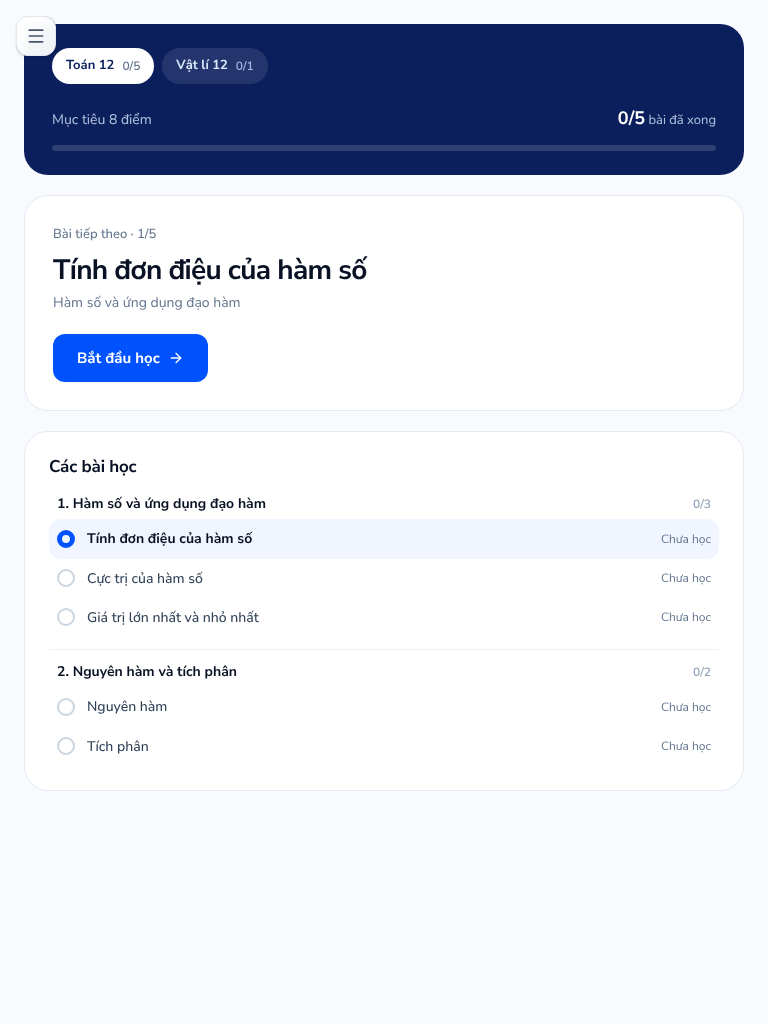
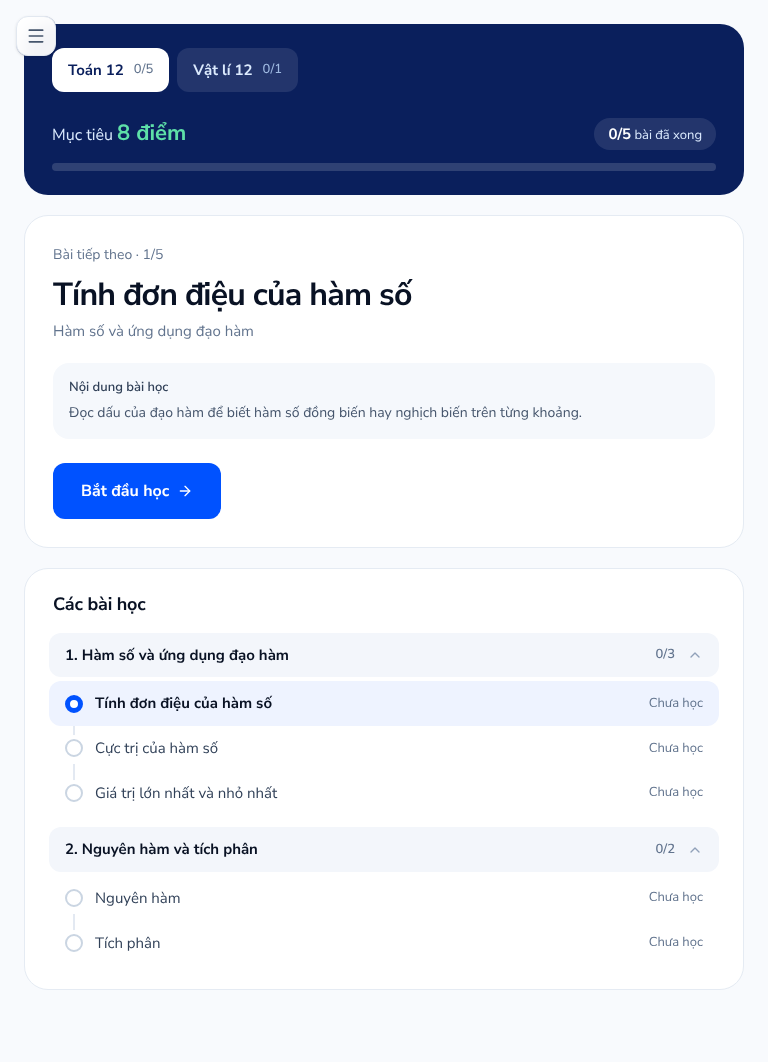
Roadmap: follow the agreed layout without decorative extras
Navy header with subject tabs, goal and progress; next-lesson card with
status dots, lesson summary and one main action; lessons grouped by
collapsible chapter with a connecting line. Drops the 3D art, the
motivational line and decorative icons from the mockup.

Claude-Session: https://claude.ai/code/session_0183PJ8LAwyvZoofH1NCFUep

diff --git a/features/roadmap/components/student-roadmap.tsx b/features/roadmap/components/student-roadmap.tsx
@@ -187,28 +187,32 @@ function Hero({
   progress?: { completed: number; total: number };
 }) {
   return (
-    <header className="rounded-[24px] bg-[#0A1F5C] px-5 pb-5 pt-5 text-white sm:px-7 sm:pb-6 sm:pt-6">
+    <header className="rounded-[24px] bg-[#0A1F5C] px-5 py-5 text-white sm:px-7 sm:py-6">
       {tabs}
-      <div className="flex items-baseline justify-between gap-4">
-        <div className="min-w-0">
-          <h1
-            className={
-              tabs
-                ? 'sr-only'
-                : 'text-[26px] font-extrabold leading-tight tracking-tight text-white sm:text-[32px]'
-            }
-          >
-            {title}
-          </h1>
-          {targetScore ? (
-            <p className={`text-[14px] text-blue-100/80 ${tabs ? '' : 'mt-1'}`}>
-              Mục tiêu {targetScore} điểm
-            </p>
-          ) : null}
-        </div>
+      <h1
+        className={
+          tabs
+            ? 'sr-only'
+            : 'mb-4 text-[26px] font-extrabold leading-tight tracking-tight text-white sm:text-[32px]'
+        }
+      >
+        {title}
+      </h1>
+      <div className="flex flex-wrap items-center justify-between gap-x-4 gap-y-2">
+        {targetScore ? (
+          <p className="text-[16px] text-blue-100">
+            Mục tiêu{' '}
+            <span className="text-[22px] font-extrabold text-[#5EE0A8]">{targetScore} điểm</span>
+          </p>
+        ) : (
+          <span />
+        )}
         {progress && (
-          <p className="shrink-0 text-[13px] text-blue-100/80" data-testid="roadmap-progress">
-            <span className="text-[18px] font-extrabold text-white" data-testid="roadmap-completed">
+          <p
+            className="rounded-full bg-white/10 px-3.5 py-1 text-[13px] text-blue-100"
+            data-testid="roadmap-progress"
+          >
+            <span className="text-[15px] font-bold text-white" data-testid="roadmap-completed">
               {progress.completed}/{progress.total}
             </span>{' '}
             bài đã xong
@@ -217,7 +221,7 @@ function Hero({
       </div>
       {progress && (
         <div
-          className="mt-3 h-1.5 overflow-hidden rounded-full bg-white/15"
+          className="mt-3 h-2 overflow-hidden rounded-full bg-white/15"
           role="progressbar"
           aria-label="Tiến độ lộ trình"
           aria-valuenow={progress.completed}
@@ -273,7 +277,9 @@ function NextStepCard({
       : step.kind === 'check'
         ? { href: lessonHref(step.lesson.id), label: 'Học bài trước' }
         : null;
-  const status = standingLabel(standings.get(step.lesson.id)!);
+  const standing = standings.get(step.lesson.id)!;
+  const status = standingLabel(standing);
+  const open = standing.practice?.inProgress;
 
   return (
     <section
@@ -283,25 +289,48 @@ function NextStepCard({
       data-kind={step.kind}
       data-lesson={step.lesson.id}
     >
-      <p className="text-[13px] font-medium text-slate-500">
+      <p className="text-[14px] text-slate-500">
         Bài tiếp theo · {position}/{scope.lessons.length}
       </p>
       <h2
         id="roadmap-next-title"
-        className="mt-2 text-[24px] font-extrabold leading-tight tracking-tight text-[#091224] sm:text-[28px]"
+        className="mt-2 text-[26px] font-extrabold leading-tight tracking-tight text-[#091224] sm:text-[32px]"
       >
         {step.lesson.title}
       </h2>
-      <p className="mt-1 text-[14px] text-slate-500">{readable(step.lesson.chapterTitle)}</p>
+      <p className="mt-1 text-[15px] text-slate-500">{readable(step.lesson.chapterTitle)}</p>
       {status.tone !== 'idle' && (
-        <p
-          className={`mt-4 text-[14px] font-semibold ${statusTone(status.tone)}`}
-          data-testid="roadmap-reason"
-        >
-          {status.text}
-        </p>
+        <div className="mt-4 flex flex-wrap items-center gap-x-4 gap-y-2">
+          <p
+            className={`text-[15px] font-semibold ${statusTone(status.tone)}`}
+            data-testid="roadmap-reason"
+          >
+            {status.text}
+          </p>
+          {open && open.totalCount <= 20 && (
+            <span className="flex gap-1" aria-hidden="true">
+              {Array.from({ length: open.totalCount }, (_, i) => (
+                <span
+                  key={i}
+                  className={`h-2 w-4 rounded-full ${i < open.answeredCount ? 'bg-[#0052FF]' : 'bg-[#DCE5F3]'}`}
+                />
+              ))}
+            </span>
+          )}
+        </div>
       )}
-      <div className="mt-5 flex flex-col gap-3 sm:flex-row sm:items-center sm:gap-5">
+      {step.lesson.description && (
+        <div className="mt-5 rounded-2xl bg-[#F5F8FC] px-4 py-3.5">
+          <p className="text-[13px] font-semibold text-slate-700">Nội dung bài học</p>
+          <p
+            className="mt-1 line-clamp-3 text-[14px] leading-6 text-slate-600"
+            data-testid="roadmap-next-description"
+          >
+            {step.lesson.description}
+          </p>
+        </div>
+      )}
+      <div className="mt-6 flex flex-col gap-3 sm:flex-row sm:items-center sm:gap-6">
         <Link href={step.href} className={primaryClass} data-testid="roadmap-next-cta">
           {step.cta} <ArrowRight className="size-4" aria-hidden="true" />
         </Link>
@@ -340,12 +369,12 @@ function LessonList({
   return (
     <section
       aria-labelledby="roadmap-map"
-      className="rounded-[24px] border border-[#E5EBF3] bg-white p-5 sm:p-6"
+      className="rounded-[24px] border border-[#E5EBF3] bg-white p-4 sm:p-6"
     >
-      <h2 id="roadmap-map" className="text-[17px] font-extrabold text-[#091224]">
+      <h2 id="roadmap-map" className="px-1 text-[18px] font-extrabold text-[#091224]">
         Các bài học
       </h2>
-      <ol className="mt-3 divide-y divide-[#EEF2F7]">
+      <ol className="mt-4 space-y-3">
         {scope.chapters.map((chapter, index) => {
           const done = chapter.lessons.filter((l) => standings.get(l.id)?.completed).length;
           const here = chapter.lessons.some((l) => l.id === nextLessonId);
@@ -356,16 +385,16 @@ function LessonList({
               title={readable(chapter.title)}
               done={done}
               count={chapter.lessons.length}
-              collapsible={many}
               open={!many || here || (!nextLessonId && index === scope.chapters.length - 1)}
             >
-              {chapter.lessons.map((lesson) => (
+              {chapter.lessons.map((lesson, i) => (
                 <LessonRow
                   key={lesson.id}
                   lessonId={lesson.id}
                   title={lesson.title}
                   standing={standings.get(lesson.id)!}
                   isNext={lesson.id === nextLessonId}
+                  last={i === chapter.lessons.length - 1}
                 />
               ))}
             </Chapter>
@@ -381,7 +410,6 @@ function Chapter({
   title,
   done,
   count,
-  collapsible,
   open,
   children,
 }: {
@@ -389,40 +417,27 @@ function Chapter({
   title: string;
   done: number;
   count: number;
-  collapsible: boolean;
   open: boolean;
   children: React.ReactNode;
 }) {
-  const heading = (
-    <span className="flex min-w-0 flex-1 items-baseline justify-between gap-3">
-      <span className="min-w-0 text-[14px] font-bold leading-snug text-[#091224]">
-        {index + 1}. {title}
-      </span>
-      <span
-        className={`shrink-0 text-[12px] font-semibold ${done === count ? 'text-emerald-700' : 'text-slate-400'}`}
-      >
-        {done}/{count}
-      </span>
-    </span>
-  );
-  if (!collapsible)
-    return (
-      <li className="py-3 first:pt-1 last:pb-0" data-testid="roadmap-chapter">
-        <div className="flex px-2">{heading}</div>
-        <ol className="mt-1.5">{children}</ol>
-      </li>
-    );
   return (
-    <li className="py-3 first:pt-1 last:pb-0" data-testid="roadmap-chapter">
+    <li data-testid="roadmap-chapter">
       <details open={open} className="group">
-        <summary className="flex cursor-pointer list-none items-center gap-2 rounded-lg px-2 focus-visible:outline-none focus-visible:ring-2 focus-visible:ring-blue-500 [&::-webkit-details-marker]:hidden">
-          {heading}
+        <summary className="flex cursor-pointer list-none items-center gap-3 rounded-xl bg-[#F3F6FB] px-4 py-3 hover:bg-[#EDF2FA] focus-visible:outline-none focus-visible:ring-2 focus-visible:ring-blue-500 [&::-webkit-details-marker]:hidden">
+          <span className="min-w-0 flex-1 text-[15px] font-bold leading-snug text-[#091224]">
+            {index + 1}. {title}
+          </span>
+          <span
+            className={`shrink-0 text-[13px] font-semibold ${done === count ? 'text-emerald-700' : 'text-slate-500'}`}
+          >
+            {done}/{count}
+          </span>
           <ChevronDown
             className="size-4 shrink-0 text-slate-400 transition-transform group-open:rotate-180"
             aria-hidden="true"
           />
         </summary>
-        <ol className="mt-1.5">{children}</ol>
+        <ol className="mt-1">{children}</ol>
       </details>
     </li>
   );
@@ -433,19 +448,27 @@ function LessonRow({
   title,
   standing,
   isNext,
+  last,
 }: {
   lessonId: string;
   title: string;
   standing: LessonStanding;
   isNext: boolean;
+  last: boolean;
 }) {
   const label = standingLabel(standing);
   return (
-    <li>
+    <li className="relative">
+      {!last && (
+        <span
+          aria-hidden="true"
+          className="absolute left-[24px] top-[38px] -bottom-[14px] w-0.5 bg-[#E3E9F2]"
+        />
+      )}
       <Link
         href={lessonHref(lessonId)}
-        className={`flex items-center gap-3 rounded-xl px-2 py-2.5 transition-colors focus-visible:outline-none focus-visible:ring-2 focus-visible:ring-blue-500 ${
-          isNext ? 'bg-[#F0F5FF]' : 'hover:bg-slate-50'
+        className={`relative flex items-center gap-3 rounded-xl px-4 py-3 transition-colors focus-visible:outline-none focus-visible:ring-2 focus-visible:ring-blue-500 ${
+          isNext ? 'bg-[#EEF3FF]' : 'hover:bg-slate-50'
         }`}
         data-testid="roadmap-lesson"
         data-lesson={lessonId}
@@ -453,19 +476,21 @@ function LessonRow({
         aria-current={isNext ? 'step' : undefined}
       >
         <Mark tone={label.tone} isNext={isNext} />
-        <span
-          className={`min-w-0 flex-1 text-[14px] leading-snug ${
-            isNext ? 'font-bold text-[#091224]' : 'font-medium text-slate-700'
-          }`}
-        >
-          {title}
-          {isNext && <span className="sr-only"> (bước tiếp theo)</span>}
-        </span>
-        <span
-          className={`shrink-0 text-right text-[12px] ${statusTone(label.tone)}`}
-          data-testid="roadmap-lesson-status"
-        >
-          {label.text}
+        <span className="flex min-w-0 flex-1 flex-col gap-0.5 sm:flex-row sm:items-center sm:gap-3">
+          <span
+            className={`min-w-0 flex-1 text-[15px] leading-snug ${
+              isNext ? 'font-bold text-[#091224]' : 'text-slate-700'
+            }`}
+          >
+            {title}
+            {isNext && <span className="sr-only"> (bước tiếp theo)</span>}
+          </span>
+          <span
+            className={`shrink-0 text-[13px] sm:text-right ${statusTone(label.tone)}`}
+            data-testid="roadmap-lesson-status"
+          >
+            {label.text}
+          </span>
         </span>
       </Link>
     </li>
@@ -477,7 +502,7 @@ function Mark({ tone, isNext }: { tone: string; isNext: boolean }) {
     return (
       <span
         aria-hidden="true"
-        className="grid size-[18px] shrink-0 place-items-center rounded-full bg-emerald-500 text-white"
+        className="grid size-[18px] shrink-0 place-items-center rounded-full bg-emerald-500 text-white ring-4 ring-white"
       >
         <Check className="size-3" strokeWidth={3.5} />
       </span>
@@ -485,14 +510,14 @@ function Mark({ tone, isNext }: { tone: string; isNext: boolean }) {
   return (
     <span
       aria-hidden="true"
-      className={`size-[18px] shrink-0 rounded-full ${
+      className={`size-[18px] shrink-0 rounded-full bg-white ${
         isNext
-          ? 'border-[5px] border-[#0052FF]'
+          ? 'border-[5px] border-[#0052FF] ring-4 ring-[#EEF3FF]'
           : tone === 'attention'
-            ? 'border-2 border-amber-400'
+            ? 'border-2 border-amber-400 ring-4 ring-white'
             : tone === 'active'
-              ? 'border-2 border-blue-400'
-              : 'border-2 border-slate-300'
+              ? 'border-2 border-blue-400 ring-4 ring-white'
+              : 'border-2 border-slate-300 ring-4 ring-white'
       }`}
     />
   );
@@ -523,7 +548,7 @@ function ProgramTabs({
       box.scrollLeft = active.offsetLeft - 20;
   }, [current]);
   return (
-    <nav aria-label="Chọn môn học" className="-mx-5 mb-4 sm:-mx-7">
+    <nav aria-label="Chọn môn học" className="-mx-5 mb-5 sm:-mx-7">
       <ul
         ref={list}
         className="flex gap-2 overflow-x-auto px-5 pb-1 sm:px-7 [scrollbar-width:none]"
@@ -536,7 +561,7 @@ function ProgramTabs({
               <Link
                 href={programHref(program)}
                 aria-current={active ? 'page' : undefined}
-                className={`inline-flex h-9 items-center gap-2 rounded-full px-3.5 text-[13px] font-bold transition-colors focus-visible:outline-none focus-visible:ring-2 focus-visible:ring-white/80 ${
+                className={`inline-flex h-11 items-center gap-2.5 rounded-xl px-4 text-[15px] font-bold transition-colors focus-visible:outline-none focus-visible:ring-2 focus-visible:ring-white/80 ${
                   active
                     ? 'bg-white text-[#0A1F5C]'
                     : 'bg-white/10 text-blue-100 hover:bg-white/20 hover:text-white'
@@ -547,7 +572,7 @@ function ProgramTabs({
                 {program.title}
                 {done && (
                   <span
-                    className={`text-[12px] font-semibold ${active ? 'text-slate-500' : 'text-blue-200/80'}`}
+                    className={`text-[13px] font-medium ${active ? 'text-slate-500' : 'text-blue-200/80'}`}
                   >
                     {done.completed}/{done.total}
                   </span>
@@ -577,6 +602,6 @@ function EmptyProgram() {
 }
 
 const primaryClass =
-  'inline-flex min-h-12 w-full items-center justify-center gap-2 rounded-xl bg-[#0052FF] px-6 text-center text-[15px] font-bold text-white transition hover:bg-[#0044CC] focus-visible:outline-none focus-visible:ring-2 focus-visible:ring-blue-500 focus-visible:ring-offset-2 sm:w-auto';
+  'inline-flex min-h-14 w-full items-center justify-center gap-2 rounded-xl bg-[#0052FF] px-7 text-center text-[16px] font-bold text-white transition hover:bg-[#0044CC] focus-visible:outline-none focus-visible:ring-2 focus-visible:ring-blue-500 focus-visible:ring-offset-2 sm:w-auto';
 const linkClass =
   'inline-flex min-h-10 items-center rounded-lg text-[14px] font-semibold text-slate-600 underline-offset-4 hover:text-blue-700 hover:underline focus-visible:outline-none focus-visible:ring-2 focus-visible:ring-blue-500';

diff --git a/docs/reviews/roadmap-declutter/BAO-CAO.md b/docs/reviews/roadmap-declutter/BAO-CAO.md
@@ -6,15 +6,23 @@
 
 | | Trước | Sau |
 | --- | --- | --- |
-| Số chữ trên trang (học sinh đang luyện) | 309 | 109 |
+| Số chữ trên trang (học sinh đang luyện) | 309 | 128 |
 | Chiều cao trang 1440 × 900 | 1143 px (phải cuộn) | 900 px (vừa một màn hình) |
-| Chiều cao trang 390 × 844 | 1816 px | 967 px |
-| Vị trí nút "Làm tiếp luyện tập", 1440 | y = 800 | y = 372 |
-| Vị trí nút trên 390 | y = 962 (dưới mép) | y = 391 |
+| Chiều cao trang 390 × 844 | 1816 px | 1270 px |
+| Vị trí nút "Làm tiếp luyện tập", 1440 | y = 800 | y = 503 |
+| Vị trí nút trên 390 | y = 962 (dưới mép) | y = 544 |
 
 Không có cuộn ngang ở khổ nào.
 
-## Đã bỏ
+## Vòng 2: theo mẫu Thi gửi
+
+Làm theo bố cục mẫu: phần đầu xanh đậm có tab môn, "Mục tiêu 8 điểm", "1/5 bài đã xong" và thanh tiến độ; thẻ bài tiếp theo có trạng thái kèm chấm tiến độ, ô "Nội dung bài học", nút lớn và link "Xem lại bài học"; danh sách "Các bài học" theo chương, đầu chương nền nhạt bấm để mở/gọn, các bài nối bằng một đường dọc.
+
+Không lấy từ mẫu: hình sách và đồ thị 3D, câu cổ vũ in nghiêng, các icon trang trí. Trên điện thoại, trạng thái bài nằm dưới tên bài để tên không bị gãy dòng.
+
+Trên 1440 và 1280, cột trái là bài tiếp theo, cột phải là danh sách bài; trang vừa một màn hình.
+
+## Đã bỏ (vòng 1)
 
 - Hình đồ thị và công thức trang trí trên nền xanh đậm.
 - Vòng tròn tiến độ, dòng "Còn 4 bài nữa trên hành trình", và ô "Thế nào là hoàn thành?". Thay bằng "1/5 bài đã xong" và một thanh tiến độ mảnh.
